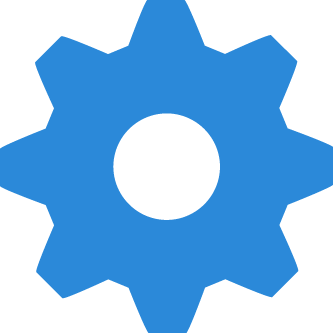
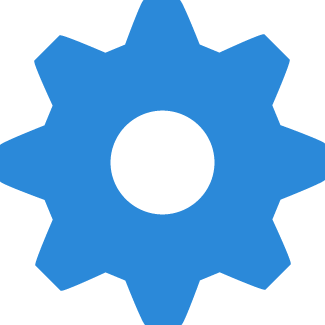
clean up and reorganization

diff --git a/Mobile/OmekaMobile/qml/app/home/detail/Detail.qml b/Mobile/OmekaMobile/qml/app/home/detail/Detail.qml
@@ -2,7 +2,7 @@ import QtQuick 2.5
 import QtQuick.Controls 1.4
 import QtQuick.Layouts 1.1
 import "../../home"
-import "../../../app"
+import "../../base"
 import "../../../utils"
 
 Item {
@@ -49,25 +49,24 @@ Item {
                 y:  parent.margins
                 anchors.horizontalCenter: parent.horizontalCenter
 
-                AppToolBar {
+                OmekaToolBar {
                     id: bar
                     backgroundColor: "#00FFFFFF"
-                    BackButton{
-                        releasedColor: "white"
+                    OmekaButton{
+                        id: back
                         anchors.left: parent.left
-                    }
-                    ToolBarButton {
-                        id: like
-                        releasedColor: "white"
-                        anchors.right: parent.right
                         icon: "../../../../ui/back.png"
-                        iconScale: .55
+                        onClicked: if(stack) stack.pop()
                     }
-                    ToolBarButton {
+                    OmekaButton {
+                        id: more
                         anchors.right: like.left
-                        icon: "../../../../ui/back.png"
-                        iconScale: .55
-                        releasedColor: "white"
+                        icon: "../../../../ui/more.png"
+                    }
+                    OmekaButton {
+                        id: like
+                        anchors.right: parent.right
+                        icon: "../../../../ui/like-indicator-2.png"
                     }
                 }
 

diff --git a/Mobile/OmekaMobile/qml/app/home/settings/Settings.qml b/Mobile/OmekaMobile/qml/app/home/settings/Settings.qml
@@ -2,7 +2,7 @@ import QtQuick 2.0
 import QtQuick.Controls 1.4
 import QtQuick.Controls.Styles 1.4
 import "../../home"
-import "../../../app"
+import "../../base"
 import "../../../utils"
 
 /*!User settings*/
@@ -13,7 +13,7 @@ Item {
         spacing: 0
 
         /*!Settings header and back button*/
-        AppToolBar {
+        OmekaToolBar {
             id: bar
             Text {
                 anchors.centerIn: parent
@@ -23,7 +23,11 @@ Item {
                 color: Style.titleColor
             }
 
-            BackButton { }
+            OmekaButton {
+                id: back
+                icon: "../../../../ui/back.png"
+                onClicked: if(stack) stack.pop()
+            }
         }
 
         ScrollView {

diff --git a/Mobile/OmekaMobile/qml/app/base/OmekaButton.qml b/Mobile/OmekaMobile/qml/app/base/OmekaButton.qml
@@ -1,7 +1,7 @@
 import QtQuick 2.0
 import QtQuick.Controls 1.4
 import QtQuick.Controls.Styles 1.4
-import "../utils"
+import "../../utils"
 
 /*!Toolbar button*/
 Button {
@@ -12,9 +12,9 @@ Button {
     /*!file path to icon image*/
     property string icon
     /*!scale relative to parent dimensions*/
-    property real iconScale: .65
+    property real iconScale: .88
     /*!default background color*/
-    property color releasedColor: Style.toolBarColor
+    property color releasedColor: "#00FFFFFF"
     /*!pressed background color*/
     property color pressedColor: Style.pressedColor
 

diff --git a/Mobile/OmekaMobile/qml/app/home/settings/BrandBar.qml b/Mobile/OmekaMobile/qml/app/home/settings/BrandBar.qml
@@ -3,17 +3,18 @@ import QtQuick.Controls 1.4
 import QtQuick.Controls.Styles 1.4
 import "../../../utils"
 import "../settings"
-import "../../../app"
+import "../../base"
 
-AppToolBar {
+OmekaToolBar {
     id: root
     signal activated()
     backgroundColor: Style.toolBarColor
 
     //app settings
-    ToolBarButton{
+    OmekaButton{
         anchors.right: parent.right
         icon: "../../../../ui/settings.png"
+        iconScale: .62
         onClicked: root.activated();
     }
 

diff --git a/Mobile/OmekaMobile/qml/app/likes/Likes.qml b/Mobile/OmekaMobile/qml/app/likes/Likes.qml
@@ -1,7 +1,7 @@
 import QtQuick 2.0
 import QtQuick.Controls 1.4
 import QtQuick.LocalStorage 2.0
-import "../../app"
+import "../base"
 import "../../utils"
 import "../home/gallery"
 import "../../js/storage.js" as Settings
@@ -18,7 +18,7 @@ Item {
         anchors.fill: parent
         spacing: 0
 
-        AppToolBar {
+        OmekaToolBar {
             id: bar
             Text {
                 anchors.centerIn: parent

diff --git a/Mobile/OmekaMobile/qml/app/search/Search.qml b/Mobile/OmekaMobile/qml/app/search/Search.qml
@@ -2,7 +2,7 @@ import QtQuick 2.0
 import QtQuick.Controls 1.4
 import QtQuick.Controls.Styles 1.4
 import "../../utils"
-import "../../app"
+import "../base"
 
 Item {
 
@@ -29,7 +29,7 @@ Item {
         anchors.fill: parent;
         spacing: 0
 
-        AppToolBar {
+        OmekaToolBar {
             TextField {
                 anchors.fill: parent
                 anchors.margins: 15 * Resolution.scaleRatio

diff --git a/Mobile/OmekaMobile/qml/app/base/OmekaToolBar.qml b/Mobile/OmekaMobile/qml/app/base/OmekaToolBar.qml
@@ -1,7 +1,7 @@
 import QtQuick 2.0
 import QtQuick.Controls 1.4
 import QtQuick.Controls.Styles 1.4
-import "../utils"
+import "../../utils"
 
 ToolBar {
 

diff --git a/Mobile/OmekaMobile/main.qml b/Mobile/OmekaMobile/main.qml
@@ -13,5 +13,5 @@ ApplicationWindow {
         Resolution.appWindow = root
     }
 
-    AppNavigation {}
+    AppView {}
 }
